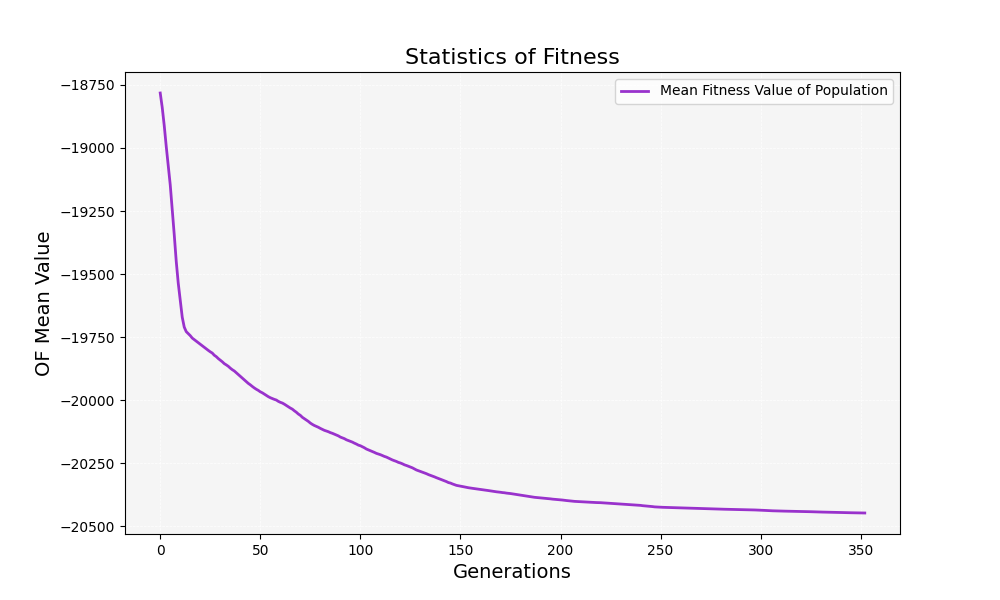
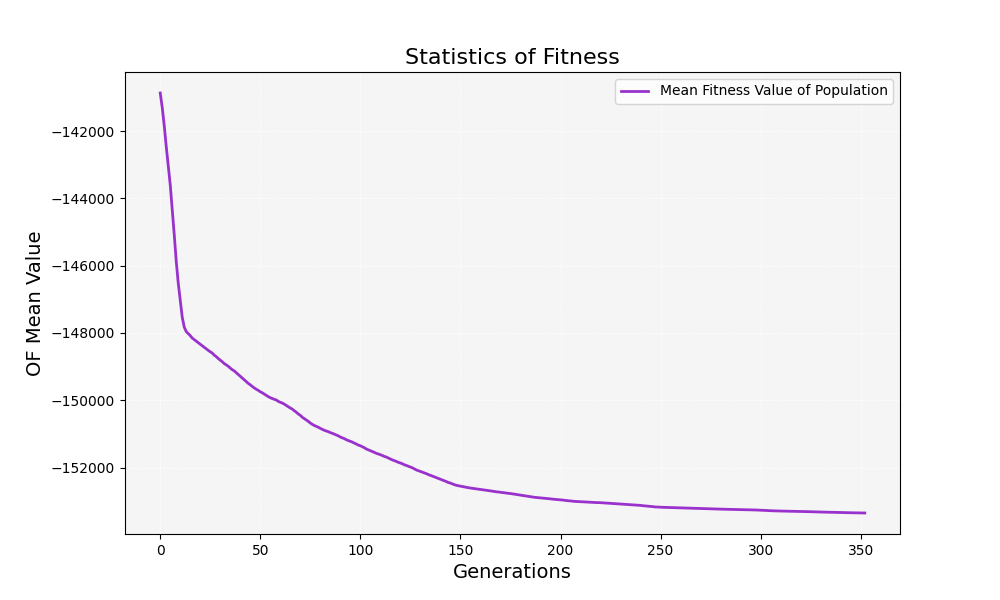
Yearly Simulation

diff --git a/Plots.py b/Plots.py
@@ -1189,6 +1189,83 @@ class EnergyPlots:
 
         plt.savefig(output_path)
 
+    def plot_daily_energy_flows(self, num_values):
+        # Estrai i dati
+        time_steps = self.time_steps[:num_values]
+        charged_energy = self.charged_energy[:num_values]
+        discharged_energy = self.discharged_energy[:num_values]
+        pun_values = self.PUN_timeseries[:num_values]
+        soc = self.soc[:num_values]
+        produced_from_pv = self.produced_from_pv[:num_values]
+        taken_from_pv = self.taken_from_pv[:num_values]
+        taken_from_grid = self.taken_from_grid[:num_values]
+        discharged_from_pv = self.discharged_from_pv[:num_values]
+
+        # Calcola le revenues
+        rev = - (np.array(discharged_energy) * pun_values / 1000) - (taken_from_grid * pun_values / 1000) - (
+                discharged_from_pv * pun_values / 1000)
+        rev_cumulative = np.cumsum(rev)
+
+        # Suddividi i dati in settimane
+        num_settimane = 12
+        ore_per_settimana = 24
+        weeks = [slice(i * ore_per_settimana, (i + 1) * ore_per_settimana) for i in range(num_settimane)]
+
+        # Nomi dei mesi in inglese
+        month_names = [
+            "January", "February", "March", "April", "May", "June",
+            "July", "August", "September", "October", "November", "December"
+        ]
+
+        # Creazione del layout con 12 box usando gridspec
+        fig = plt.figure(figsize=(16, 32))  # Aumentato la larghezza e l'altezza per migliorare la visibilità
+        gs = gridspec.GridSpec(num_settimane, 2)  # 12 righe e 2 colonne per 12 box
+
+        width = 0.4  # Larghezza delle barre
+        for i, week in enumerate(weeks):
+            # Asse per SoC
+            ax0 = fig.add_subplot(gs[i, 0])  # Posizione del box per SoC
+            norm = Normalize(vmin=min(soc * 100), vmax=max(soc * 100))
+            cmap = matplotlib.colors.LinearSegmentedColormap.from_list("", ["lightblue", "steelblue", "darkblue"])
+
+            # Plot SoC
+            ax0.bar(time_steps[week], soc[week], color=cmap(norm(soc[week] * 100)), width=width)
+            ax0.set_title(f'{month_names[i]}')  # Modificato per usare i nomi dei mesi
+            ax0.set_ylabel('SoC [%]')
+            ax0.set_ylim(0, 1)  # Imposta i limiti dell'asse Y per SoC
+
+            # Asse per l'energia caricata e scaricata
+            ax1 = fig.add_subplot(gs[i, 1])  # Posizione del box per energia
+            ax1.fill_between(time_steps[week], 0, produced_from_pv[week], color='lightblue', alpha=0.3,
+                             label='Produced from PV')
+            ax1.bar(time_steps[week], taken_from_grid[week], color='darkgreen', label='From Grid to BESS',
+                    width=width)
+            ax1.bar(time_steps[week], taken_from_pv[week], color='darkblue', bottom=-discharged_from_pv[week],
+                    width=width,
+                    label='From PV to BESS')
+            ax1.bar(time_steps[week], discharged_energy[week], color='darkred', label='From BESS to Grid',
+                    width=width)
+            ax1.bar(time_steps[week], -discharged_from_pv[week], color='steelblue', label='From PV to Grid',
+                    width=width)
+
+            ax1.set_ylabel('Energy [kWh]')
+            ax1.legend(loc='upper left')
+
+            # Plot PUN values on the secondary axis
+            ax2 = ax1.twinx()
+            ax2.plot(time_steps[week], pun_values[week], color='black', label='PUN')
+            ax2.set_ylabel('PUN [Euro/MWh]')
+            ax2.legend(loc='upper right')
+
+        plt.subplots_adjust(hspace=0.4, wspace=0.3)  # Aumenta lo spazio verticale e orizzontale tra i grafici
+        plt.tight_layout()
+        plt.savefig(os.path.join(self.plots_dir, "Daily_Energy_Flows.png"))
+
+
+
+
+
+
 
 
 

diff --git a/main.py b/main.py
@@ -168,10 +168,10 @@ class Main:
         for i in range(num_settimane):
             inizio = i * ore_per_settimana
             fine = inizio + ore_per_settimana
-            revenues_settimanali[i] = np.sum(rev[inizio:fine])
+            revenues_settimanali[i] = np.sum(rev[inizio:fine]) * 30
 
         # Moltiplica le revenues settimanali per 4
-        revenues_finali = revenues_settimanali * 4
+        revenues_finali = revenues_settimanali
 
         # Calcola la somma totale delle revenues finali
         rev = np.sum(revenues_finali)
@@ -193,6 +193,7 @@ class Main:
                                 taken_from_grid, taken_from_pv, pv_production['P'], discharged_from_pv)
             plots.plot_combined_energy_with_pun(num_values=time_window)
             plots.Total_View(num_values=time_window)
+            plots.plot_daily_energy_flows(num_values=time_window)
             #if plot_monthly == True:
                # plots.Total_View_Monthly(time_window)
                 #plots.Total_View_Monthly_SoC(time_window)

diff --git a/objective_function.py b/objective_function.py
@@ -165,10 +165,10 @@ class Revenues(ElementwiseProblem):
         for i in range(num_settimane):
             inizio = i * ore_per_settimana
             fine = inizio + ore_per_settimana
-            revenues_settimanali[i] = np.sum(revenue_column[inizio:fine])
+            revenues_settimanali[i] = np.sum(revenue_column[inizio:fine]) * 30
 
         # Moltiplica le revenues settimanali per 4
-        revenues_finali = revenues_settimanali * 4
+        revenues_finali = revenues_settimanali
 
         # Calcola la somma totale delle revenues finali
         somma_revenues_finali = np.sum(revenues_finali)

diff --git a/Economic_parameters.py b/Economic_parameters.py
@@ -63,4 +63,3 @@ time_window = len(PUN_timeseries_reduced[:, 1])
 
 PUN_timeseries = PUN_timeseries_reduced
 
-
